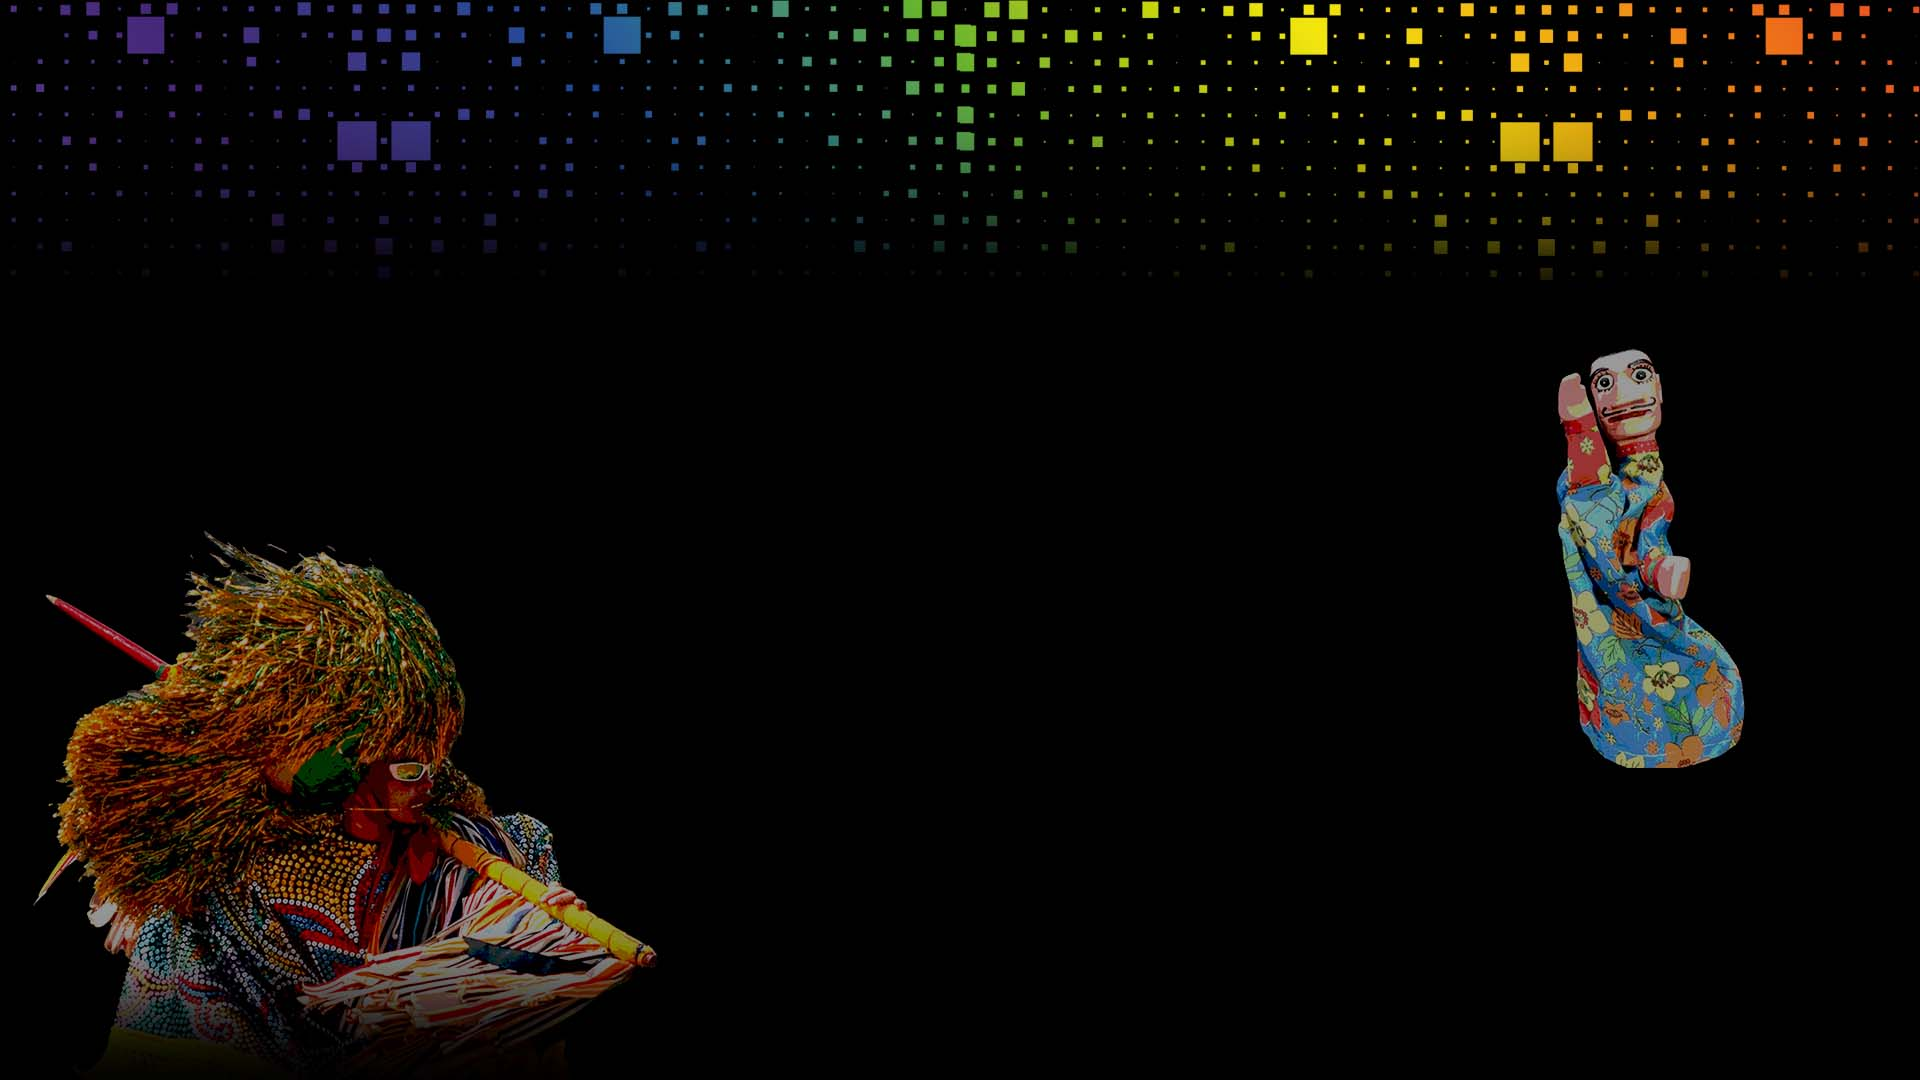
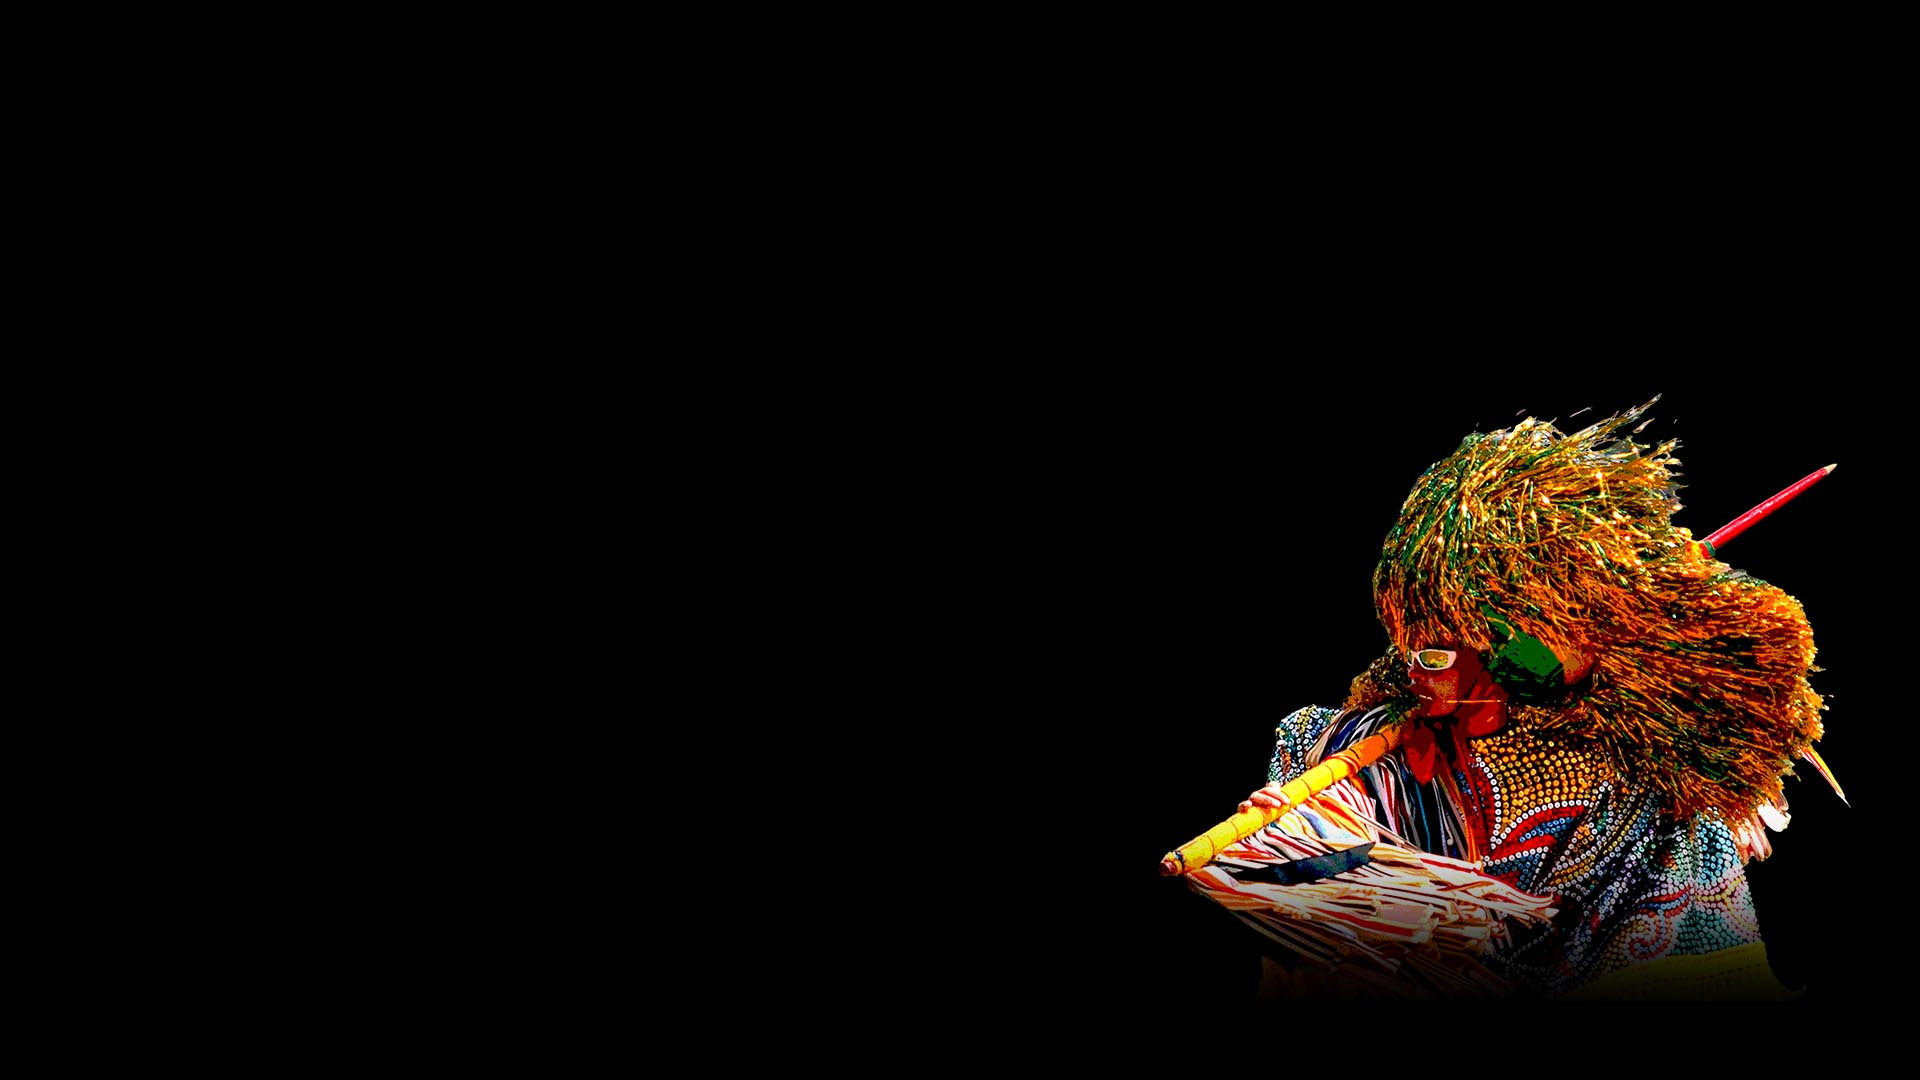
vamo alternar, uma pra um lado, outra pra outro
separar elas talvez...

diff --git a/client/src/index.css b/client/src/index.css
@@ -32,7 +32,7 @@ body {
 
 
 section {
-  position: relative; /* Garante que o ::before fique sobre o background */
+  
   display: flex;
   align-items: center;
   justify-content: space-around;
@@ -40,27 +40,28 @@ section {
   transition: background-image 1s ease-in-out;
   background-size: cover;
   background-position: center;
-  min-height: 1080px;
+  background-repeat: no-repeat;
+  min-height: 100vh;
   overflow: hidden; /* Evita problemas de layout */
 }
 
-/* Criando um overlay escuro sobre o background */
-section::before {
+
+/* section::before {
   content: "";
   position: absolute;
   top: 0;
   left: 0;
   width: 100%;
   height: 100%;
-  background: rgba(0, 0, 0, 0.7); /* Ajuste o último valor para mais ou menos escuro */
+  background: rgba(0, 0, 0, 0.7); 
   z-index: 1;
 }
 
-/* Garante que o conteúdo continue visível acima do overlay */
+
 section > * {
   position: relative;
   z-index: 2;
-}
+} */
 
 header,
 main,

diff --git a/client/src/componentes/MainHome/MainHome.js b/client/src/componentes/MainHome/MainHome.js
@@ -73,9 +73,6 @@ function MainHome() {
     // Formatar a contagem regressiva
     const contagemFormatada = `${contagem.dias} dias, ${contagem.horas} horas, ${contagem.minutos} minutos e ${contagem.segundos} segundos`;
 
-
-
-
     useEffect(() => {
         const typed = new Typed('#my-h1', {
             strings: ['O Maior Evento de Tecnologia da Mata Norte está de volta!'],
